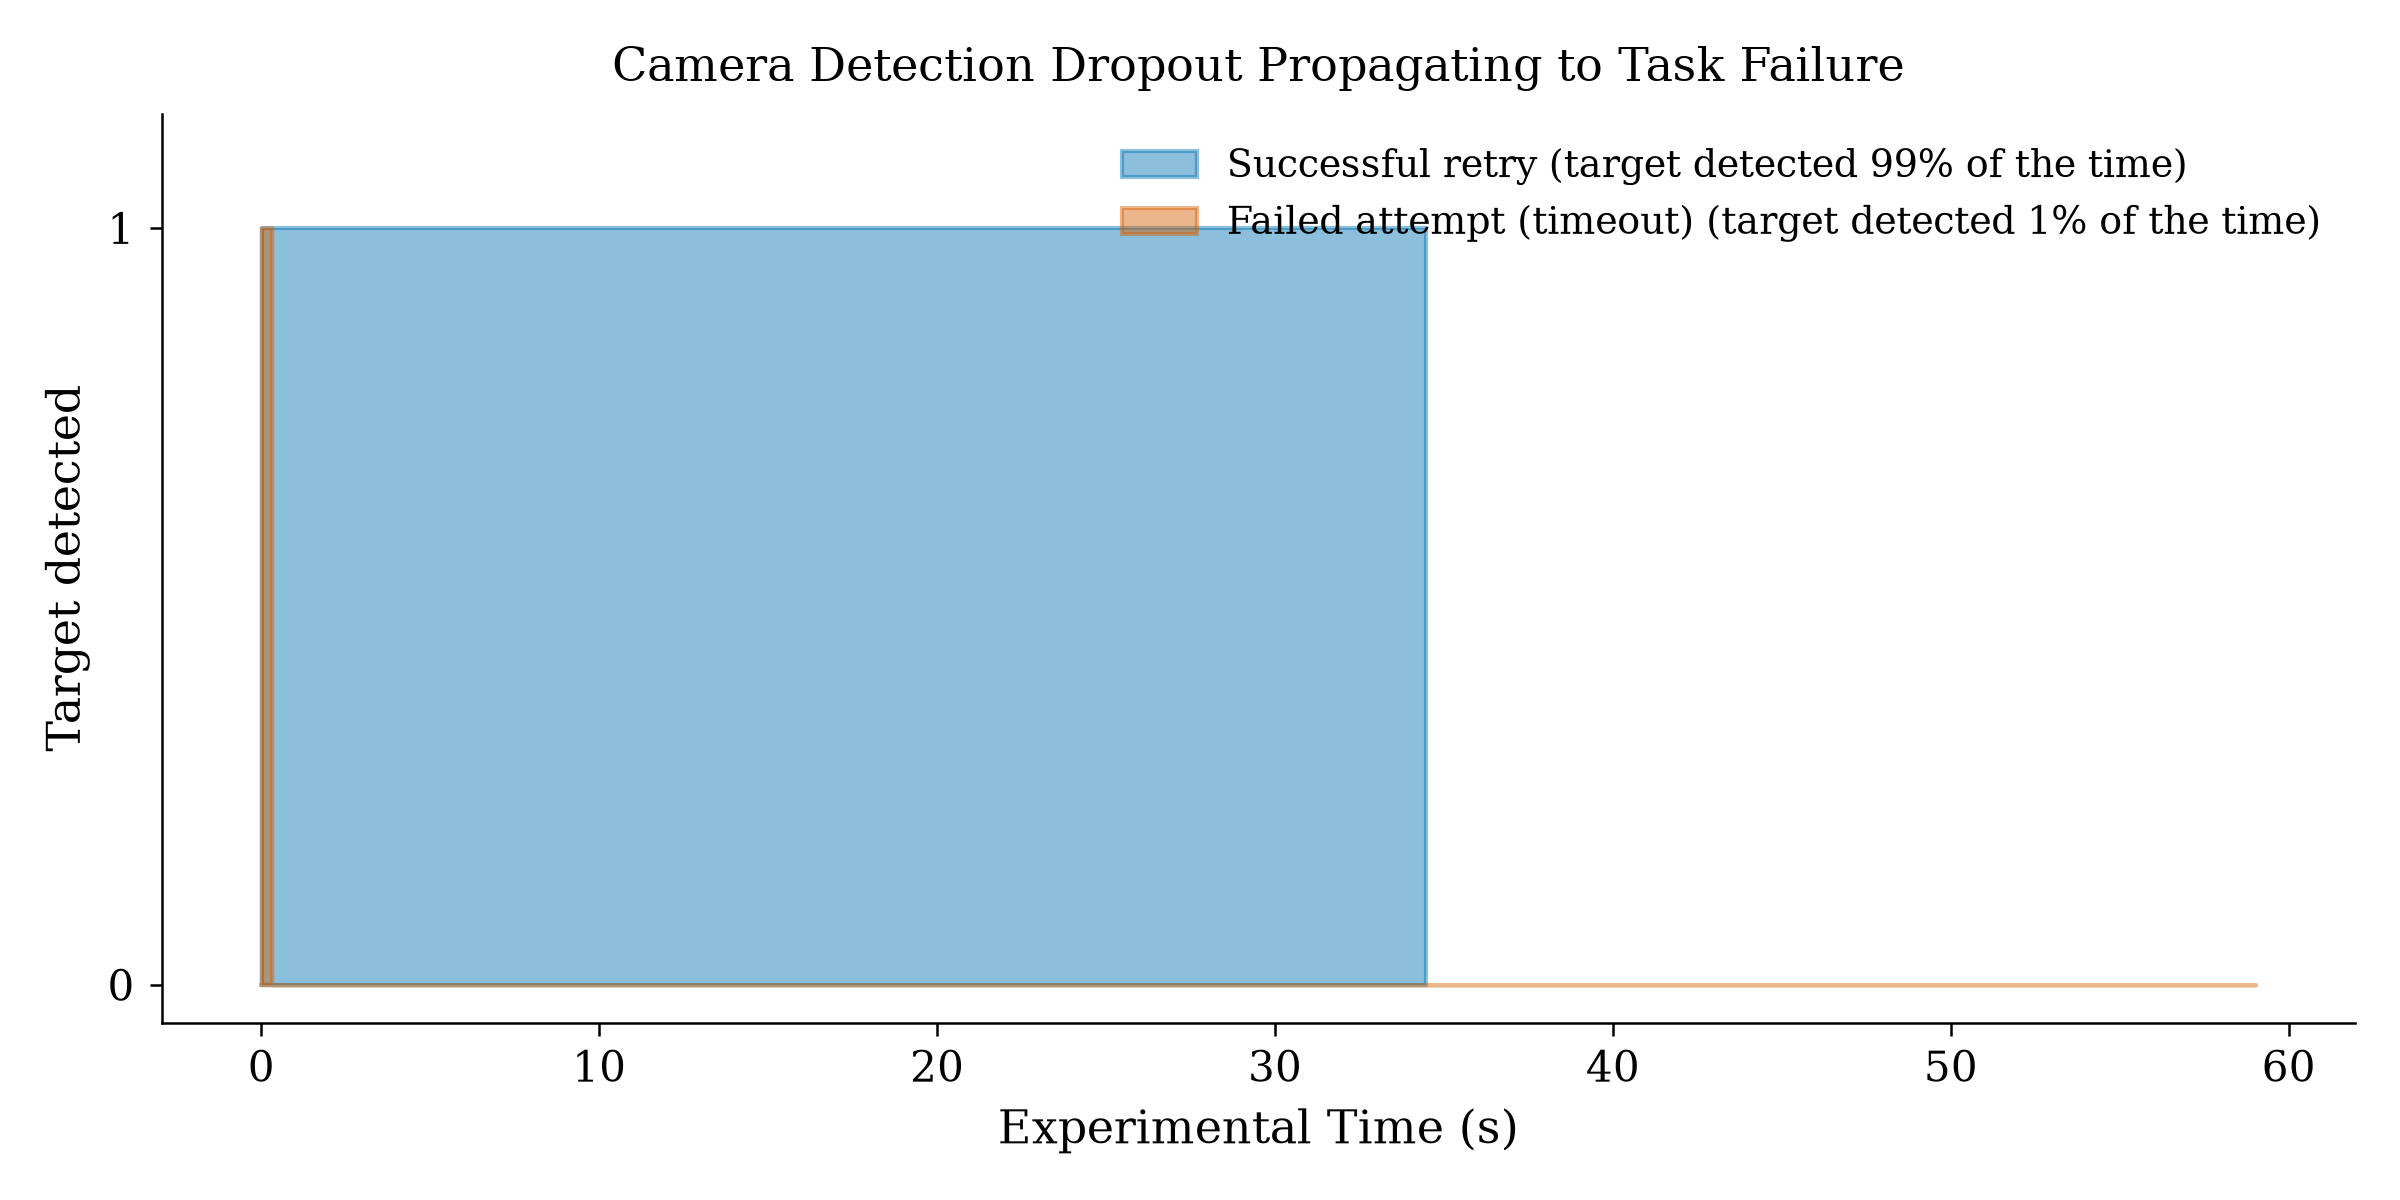
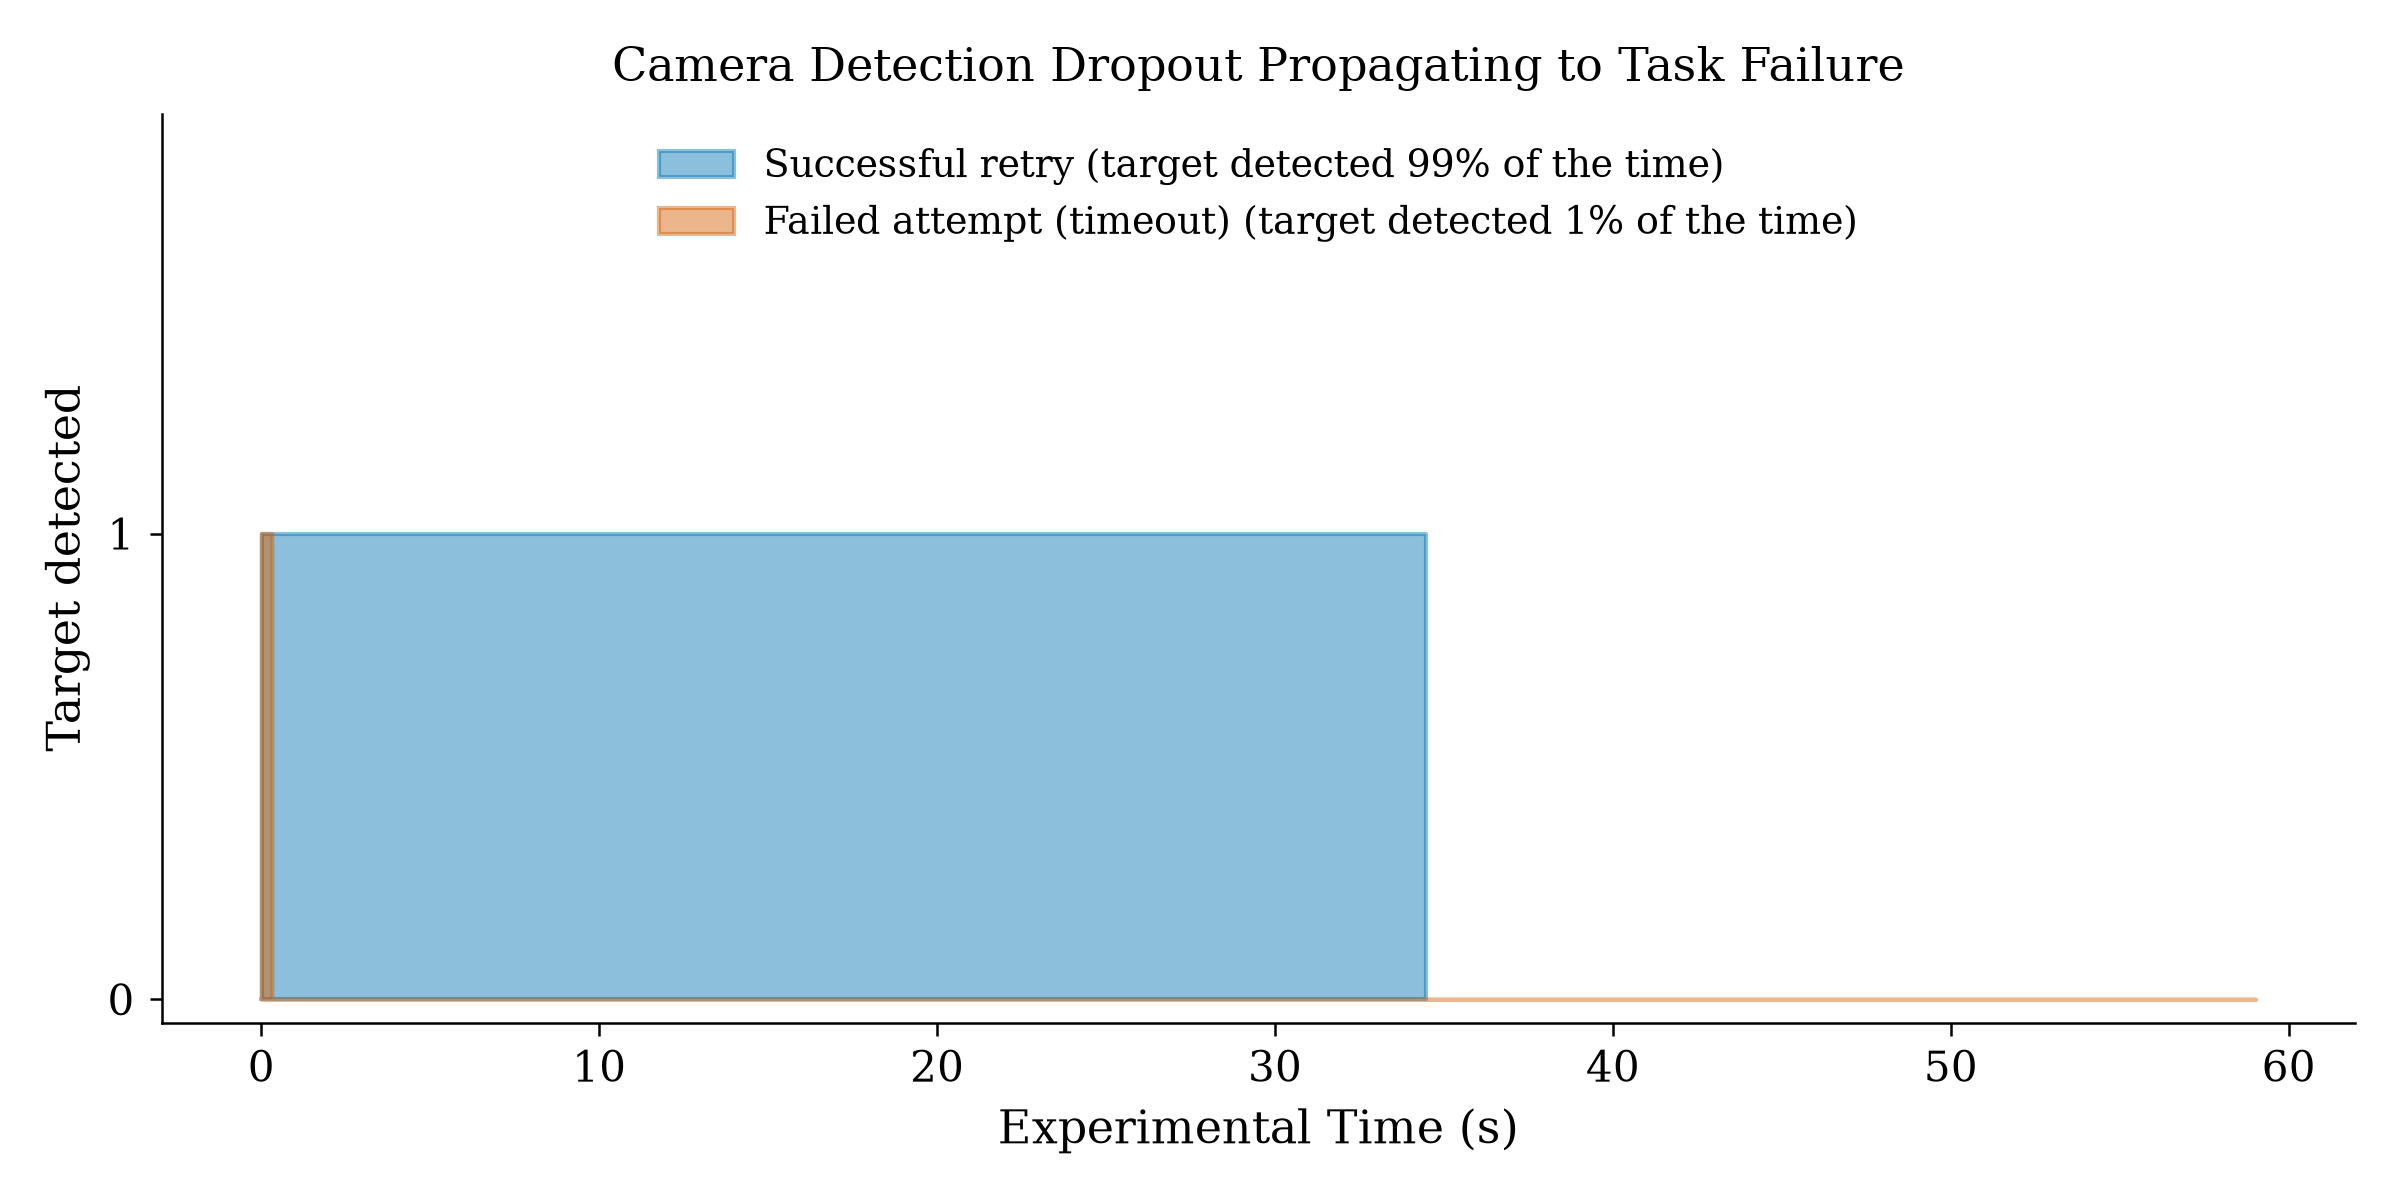
R3-04: fix Fig R3 legend overlap (audit round 2, final ⚠), 7/8 pieces approved
r304_audit_notes_2026-09-01.md (round 2 export via audit_tool_R304.html): 7 of 8
pieces (grid, 4x fig2_*_micro, Fig R2, Fig R1 bar chart) approved unchanged.

Only Fig R3 needed a fix: the legend sat inside the y in [0,1] data range and
occluded the blue 'Successful retry' fill, plus visually collided with the
'Failed attempt (timeout)' trace. Fixed by reserving a dedicated blank header
band above the data (ylim extended to 1.9, ticks stay at 0/1) and anchoring the
legend there (upper center, frameless) -- guaranteed clear of the data regardless
of where it falls on the x-axis, not a manual placement that could collide again
if the trial pair changes.

All 8 R3-04 images/tables pieces are now author-approved. Remaining work
(promote to assets/, write methodology.tex/results.tex prose, the 4 prose-only
notes already flagged: Table R2 in methodology, Complex-scenario rewrite, Fig R3
interpretation, NoiseSeed mention) is out of scope for this images/data-only
session -- left for the writing session. See R3-04_images_pipeline_audit.md Sec 9.

Claude-Session: https://claude.ai/code/session_01Je5XQfWER6ZrVBqSDzc4qQ

Changed region(s): [[0.0938, 0.1233, 0.9688, 0.4625], [0.0938, 0.8017, 0.9375, 0.8325], [0.0312, 0.8017, 0.0625, 0.8325]]

diff --git a/experiments/R3-04-noise-robustness/scripts/build_camera_dropout_evidence.py b/experiments/R3-04-noise-robustness/scripts/build_camera_dropout_evidence.py
@@ -21,6 +21,13 @@ de un experimento de los builders reusables entre experimentos (ver README.md ra
   crudos en material orientado al lector), la misma que ya motivó quitar la nota superior de las
   figuras `fig2_*_micro` en esta misma ronda de revisión.
 - Título pegado al contenido (antes había una franja vacía entre el título y la gráfica).
+
+**Ronda 2 (2026-09-01), ajuste** (`r304_audit_notes_2026-09-01.md`, veredicto ⚠ ajustar — "leyenda
+se solapa con el ploteo"): la leyenda vivía dentro del rango de datos (y∈[0,1]), pisando el
+relleno azul. Fix: se reserva una franja de encabezado vacía por encima de los datos
+(`set_ylim` extendido a 1.9, sin tocar los ticks 0/1 que sí importan) y la leyenda se ancla ahí —
+espacio en blanco garantizado sin importar en qué tramo de x caiga, no una reubicación manual que
+podría volver a chocar si los datos cambian.
 """
 from __future__ import annotations
 
@@ -60,11 +67,14 @@ def build(data_root: str, output_path: str) -> None:
         ax.fill_between(t, 0, df["blue_present"], step="mid", color=color, alpha=0.45,
                          zorder=frac_zorder, label=f"{label} (target detected {frac:.0%} of the time)")
 
-    ax.set_ylim(-0.05, 1.15)
+    # Headroom above y=1 reserved purely for the legend, so it never overlaps the fill/lines
+    # regardless of where they fall on the x-axis (round-2 fix: the legend used to sit inside the
+    # y in [0,1] data range and occlude the blue fill).
+    ax.set_ylim(-0.05, 1.9)
     ax.set_yticks([0, 1])
     ax.set_ylabel("Target detected")
     ax.set_xlabel("Experimental Time (s)")
-    ax.legend(loc="upper right", fontsize=9)
+    ax.legend(loc="upper center", bbox_to_anchor=(0.5, 1.0), fontsize=9, frameon=False)
     ax.set_title("Camera Detection Dropout Propagating to Task Failure", fontsize=11, pad=8)
     fig.tight_layout()
     os.makedirs(os.path.dirname(output_path), exist_ok=True)

diff --git a/intake/pending/r304_audit_notes_2026-09-01.md b/intake/pending/r304_audit_notes_2026-09-01.md
@@ -1,49 +1,49 @@
 # Auditoría R3-04 — Notas de revisión
 
-8/31/2026, 7:58:47 PM
+8/31/2026, 8:21:28 PM
 
-## [GRID] Noise-Robustness Grid (reemplazo completo) (fig1_noise_robustness_grid.png)
+## [GRID] Noise-Robustness Grid (reemplazo completo) — Ronda 2 (fig1_noise_robustness_grid.png)
 
-- Estado: ⚠ Ajustar antes de promover
-- Notas: En la columna de pitch RSM opino que para validar que hay variaciones pero son más pequeñas podemos ajustar la escala por ejemplo de 0 a 2, para complex, aversive y appetitive que son las más "planas". Que opinas? entorpecería la lectura de la gráficas? ANOTACIÓN explicar causas de picos en obstacle. Y revisar si antes se hacía referencia a Mode Latency Swicth en el texto ya que veo que esta desapareció.
+- Estado: ✅ OK, promover a assets/
+- Notas: (vacío)
 
-## [MICRO] fig2_Appetitive_micro (trial noise_level_idx=0) (fig2_Appetitive_micro_test_001_SUCCESS.png)
+## [MICRO] fig2_Appetitive_micro (trial noise_level_idx=0) — Ronda 2 (fig2_Appetitive_micro_test_001_SUCCESS.png)
 
-- Estado: ⚠ Ajustar antes de promover
-- Notas: No olvidar quitar nota superior de Appetitive trial tst 001 succes noise level...
+- Estado: ✅ OK, promover a assets/
+- Notas: (vacío)
 
-## [MICRO] fig2_Aversive_micro (trial noise_level_idx=0) (fig2_Aversive_micro_test_001_SUCCESS.png)
+## [MICRO] fig2_Aversive_micro (trial noise_level_idx=0) — Ronda 2 (fig2_Aversive_micro_test_001_SUCCESS.png)
 
-- Estado: ⚠ Ajustar antes de promover
-- Notas: No olvidar quitar nota superior de Aversive trial tst 001 succes noise level...
+- Estado: ✅ OK, promover a assets/
+- Notas: (vacío)
 
-## [MICRO] fig2_Obstacle_micro (trial noise_level_idx=0) (fig2_Obstacle_micro_test_001_SUCCESS.png)
+## [MICRO] fig2_Obstacle_micro (trial noise_level_idx=0) — Ronda 2 (fig2_Obstacle_micro_test_001_SUCCESS.png)
 
-- Estado: ⚠ Ajustar antes de promover
-- Notas: No olvidar quitar nota superior de Obstacle trial tst 001 succes noise level...
+- Estado: ✅ OK, promover a assets/
+- Notas: (vacío)
 
-## [MICRO] fig2_Complex_micro (trial noise_level_idx=0) (fig2_Complex_micro_test_001_SUCCESS.png)
+## [MICRO] fig2_Complex_micro (trial noise_level_idx=0) — Ronda 2 (fig2_Complex_micro_test_001_SUCCESS.png)
 
-- Estado: ⚠ Ajustar antes de promover
-- Notas: Se debe reescribir totalmente este analisis relatando el encuentro con los tres estímulos de manera concisa. No olvidar quitar nota superior de Complex trial tst 001 succes noise level...
+- Estado: ✅ OK, promover a assets/
+- Notas: (vacío)
 
-## [TERRAIN] Figura R2 — Postural Stability vs. Noise (nueva) (fig_R2_terrain_stability_vs_noise.png)
+## [TERRAIN] Figura R2 — Postural Stability vs. Noise — Ronda 2 (fig_R2_terrain_stability_vs_noise.png)
 
-- Estado: ⚠ Ajustar antes de promover
-- Notas: En lugar de índices podemos hablar de porcentajes de ruido si existen en el código. Pero si el index se refiere a mas de un dato de procentaje dejar solo index ENTEROS no decimales no aportan información. Título muy separado de contenido de la imágen
+- Estado: ✅ OK, promover a assets/
+- Notas: (vacío)
 
-## [CAMERA] Figura R3 — Camera Dropout Evidence (nueva) (fig_R3_camera_dropout_evidence.png)
-
-- Estado: ❌ Rechazar / re-hacer
-- Notas: Título muy separado de contenido de la imágen. Superponer y explicar la diferencia con leyendas. Obviamente en el texto debe explicarse la interpretación entre estas dos, NO PONER NOMBRE TÉCNICOS DE PRUEBAS SOLO POR EJEMPLO test succes, test failure for timeout of response. Mejorar solo es una propuesta.
-
-## [TABLE] Tabla R1 — Tasa de fallo por familia (table_R1_failure_rate.csv)
-
-- Estado: ❌ Rechazar / re-hacer
-- Notas: Mostrar información porcentual además son muchos datos en cero, hay una mejor y eficiente forma de representar eso?
-
-## [TABLE] Tabla R2 — Parámetros de perturbación por sensor (table_R2_perturbation_params.csv)
+## [CAMERA] Figura R3 — Camera Dropout Evidence — REHECHA en Ronda 2 (fig_R3_camera_dropout_evidence.png)
 
 - Estado: ⚠ Ajustar antes de promover
-- Notas: Explicar en metdología. Eliminar columna default. Y fila noice seed, esta última se puede mencionar en el texto rápidamente.
+- Notas: Re-organizar leyendas en el espacio blanco para no tener problemas de oclusión con el ploteo Cómo ya ocurre con la leyenda Failed Attempt timeout
+
+## [CHART] Figura R1 — Trial Outcome by Family — REEMPLAZA la Tabla R1 (fig_R1_failure_by_family.png)
+
+- Estado: ✅ OK, promover a assets/
+- Notas: (vacío)
+
+## [TABLE] Tabla R2 — Parámetros de perturbación por sensor — Ronda 2 (table_R2_perturbation_params.csv)
+
+- Estado: ✅ OK, promover a assets/
+- Notas: (vacío)
 

diff --git a/intake/pending/R3-04_images_pipeline_audit.md b/intake/pending/R3-04_images_pipeline_audit.md
@@ -274,3 +274,30 @@ es contenido genuinamente nuevo, no una restauración de algo perdido.
 R2 en la metodología; reescribir el análisis de `fig2_Complex_micro` relatando el encuentro con los
 tres estímulos; explicar en prosa la interpretación de Fig R3; mencionar `NoiseSeed=42` en el
 texto.
+
+---
+
+## 9. Ronda 2 de auditoría — cierre (2026-09-01)
+
+Segunda pasada con `audit_tool_R304.html` (título de la herramienta actualizado a "Ronda 2 —
+cierre", `STORE_KEY` re-versionado a `v2` para no arrastrar veredictos de la Ronda 1 sobre
+contenido ya cambiado), notas exportadas a `r304_audit_notes_2026-09-01.md` (sobrescribió el mismo
+nombre de archivo — mismo día, timestamp interno 8:21:28 PM).
+
+**7 de 8 piezas ✅ aprobadas sin más cambios:** grid, las 4 `fig2_*_micro`, Fig R2, Fig R1
+(gráfico de barras). Listas para promover a `assets/` cuando el autor lo confirme (`scripts/
+promote_figure.sh`, todavía no ejecutado en esta sesión) — Tabla R2 igual.
+
+**1 pieza con ajuste (⚠), ya corregido:** Fig R3 — la leyenda vivía dentro del rango de datos
+(y∈[0,1]) y pisaba el relleno azul de "Successful retry". Fix: se reservó una franja de encabezado
+vacía por encima de los datos (`ax.set_ylim` extendido a 1.9, sin tocar los ticks 0/1 que sí
+importan) y la leyenda se ancla ahí (`loc="upper center"`, sin marco) — espacio en blanco
+garantizado sin importar en qué tramo de x caigan los datos, no una reubicación manual que podría
+volver a chocar si el par de trials cambia. Regenerado y verificado visualmente: la leyenda ya no
+solapa ni el relleno ni la línea de "Failed attempt".
+
+**Cierre de la fase de imágenes/planificación:** con este ajuste, las 8 piezas de R3-04 quedan
+aprobadas. Lo que sigue es responsabilidad de la sesión de escritura: promover a `assets/`,
+escribir/editar `sections/methodology.tex` y `sections/results.tex`, y resolver los 4 pendientes de
+prosa listados arriba (Tabla R2 en metodología, análisis de `Complex`, interpretación de Fig R3,
+mención de `NoiseSeed`).
